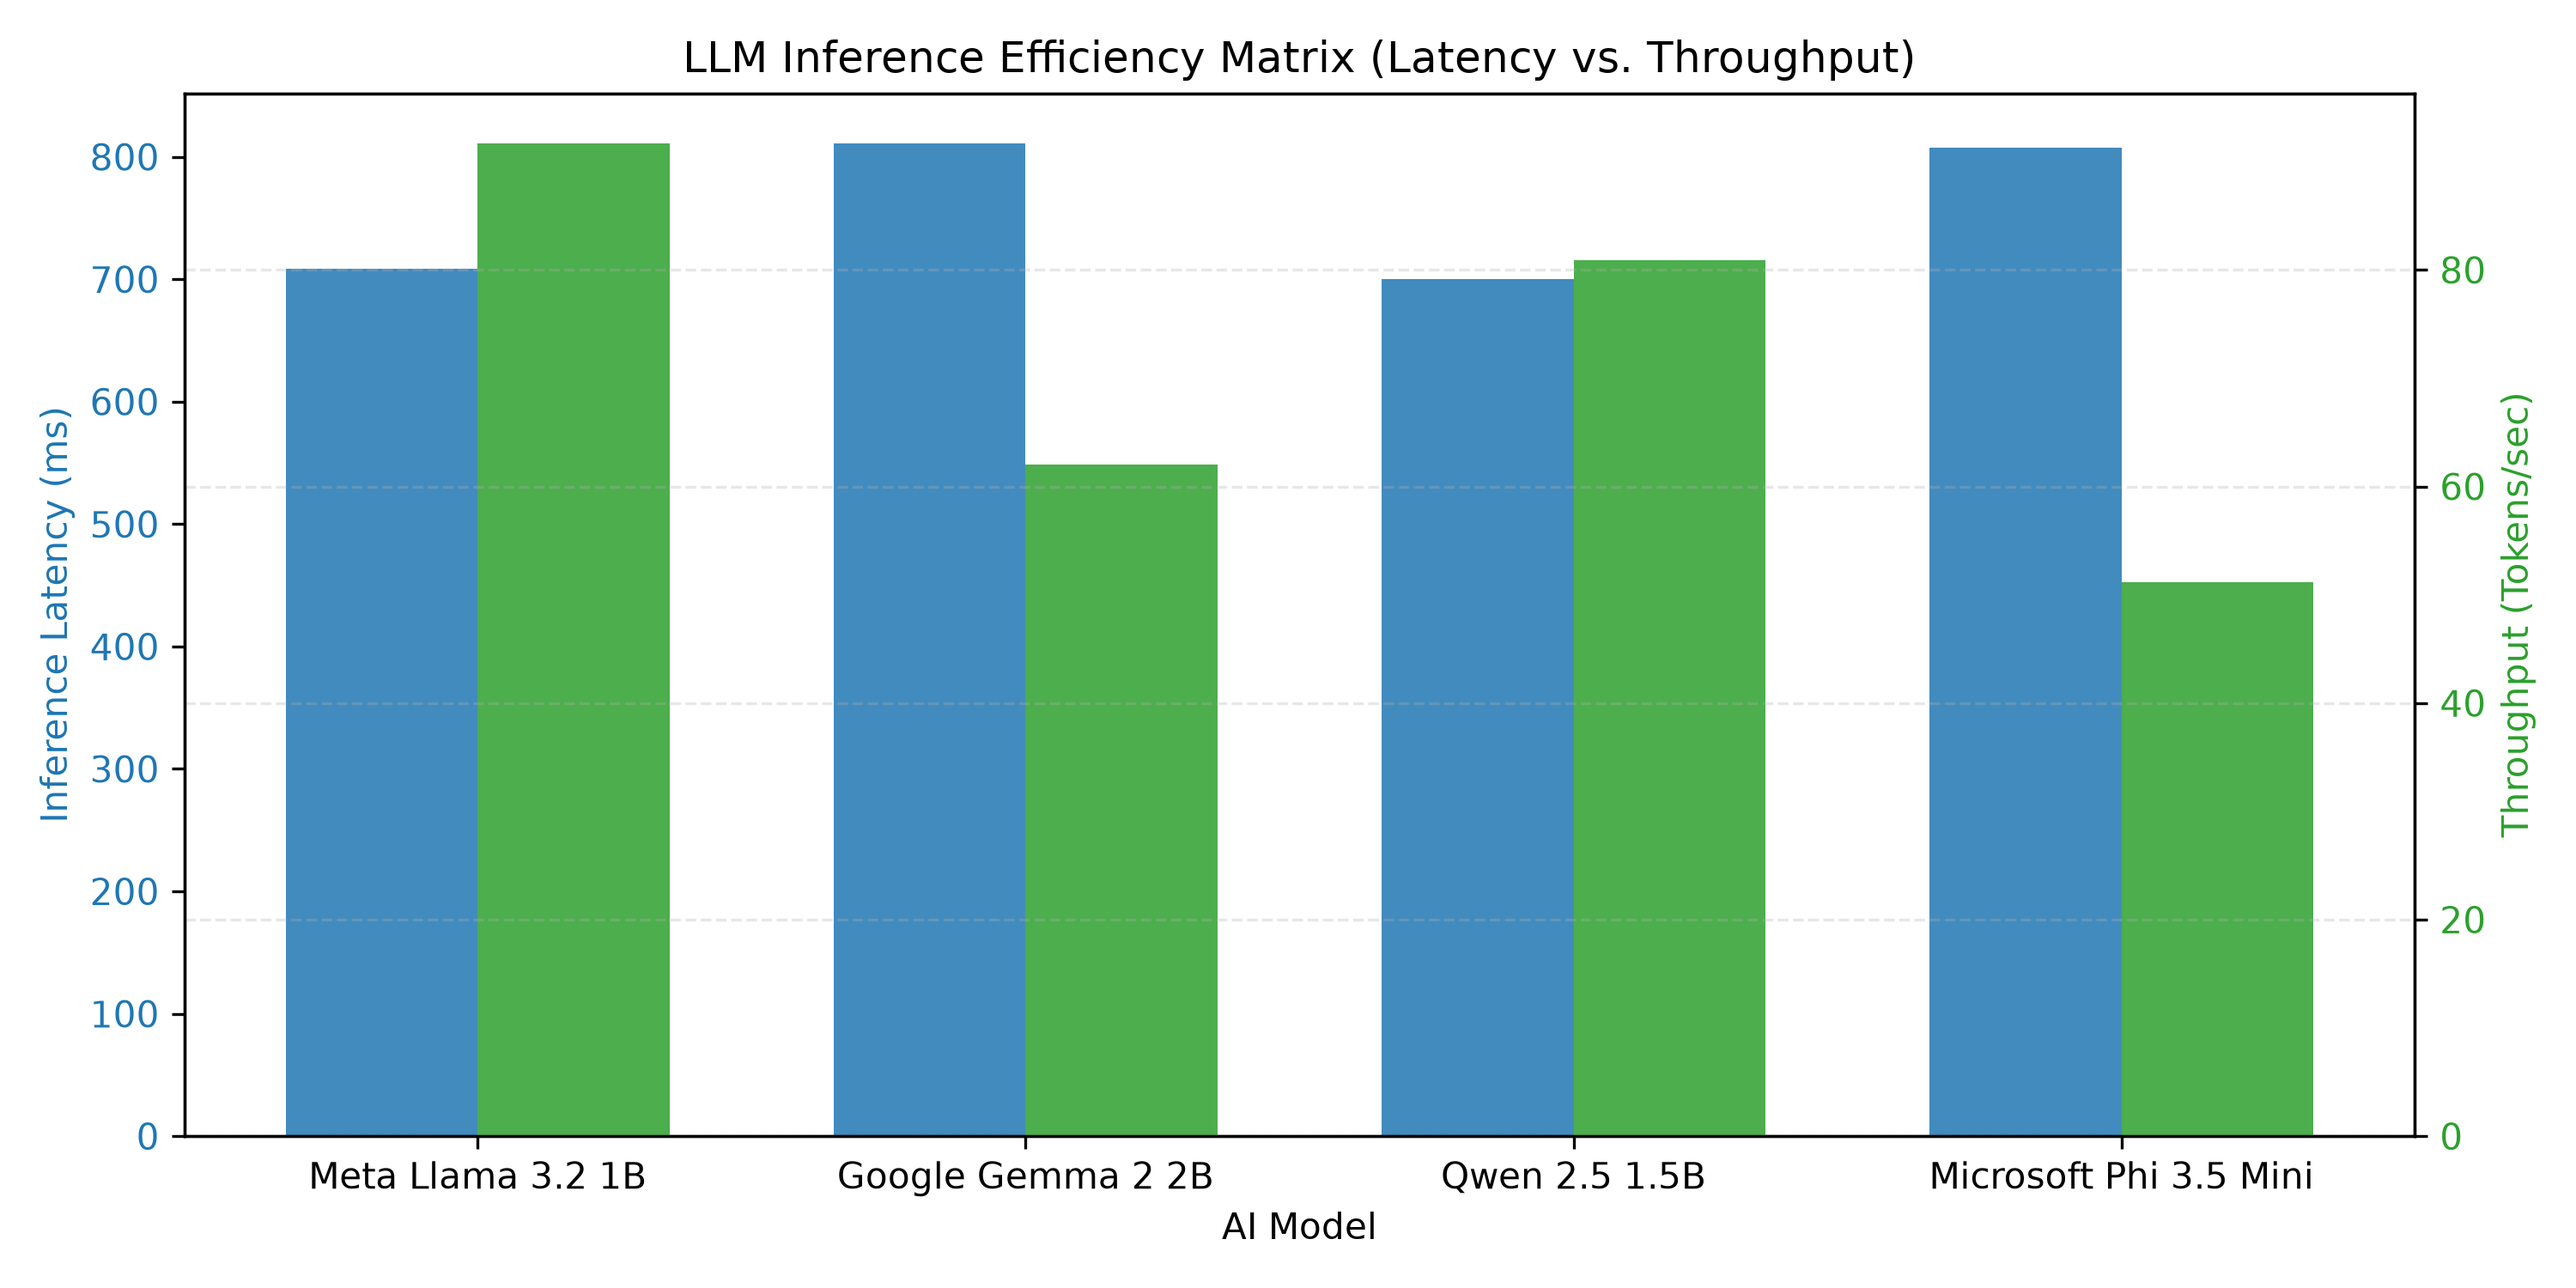
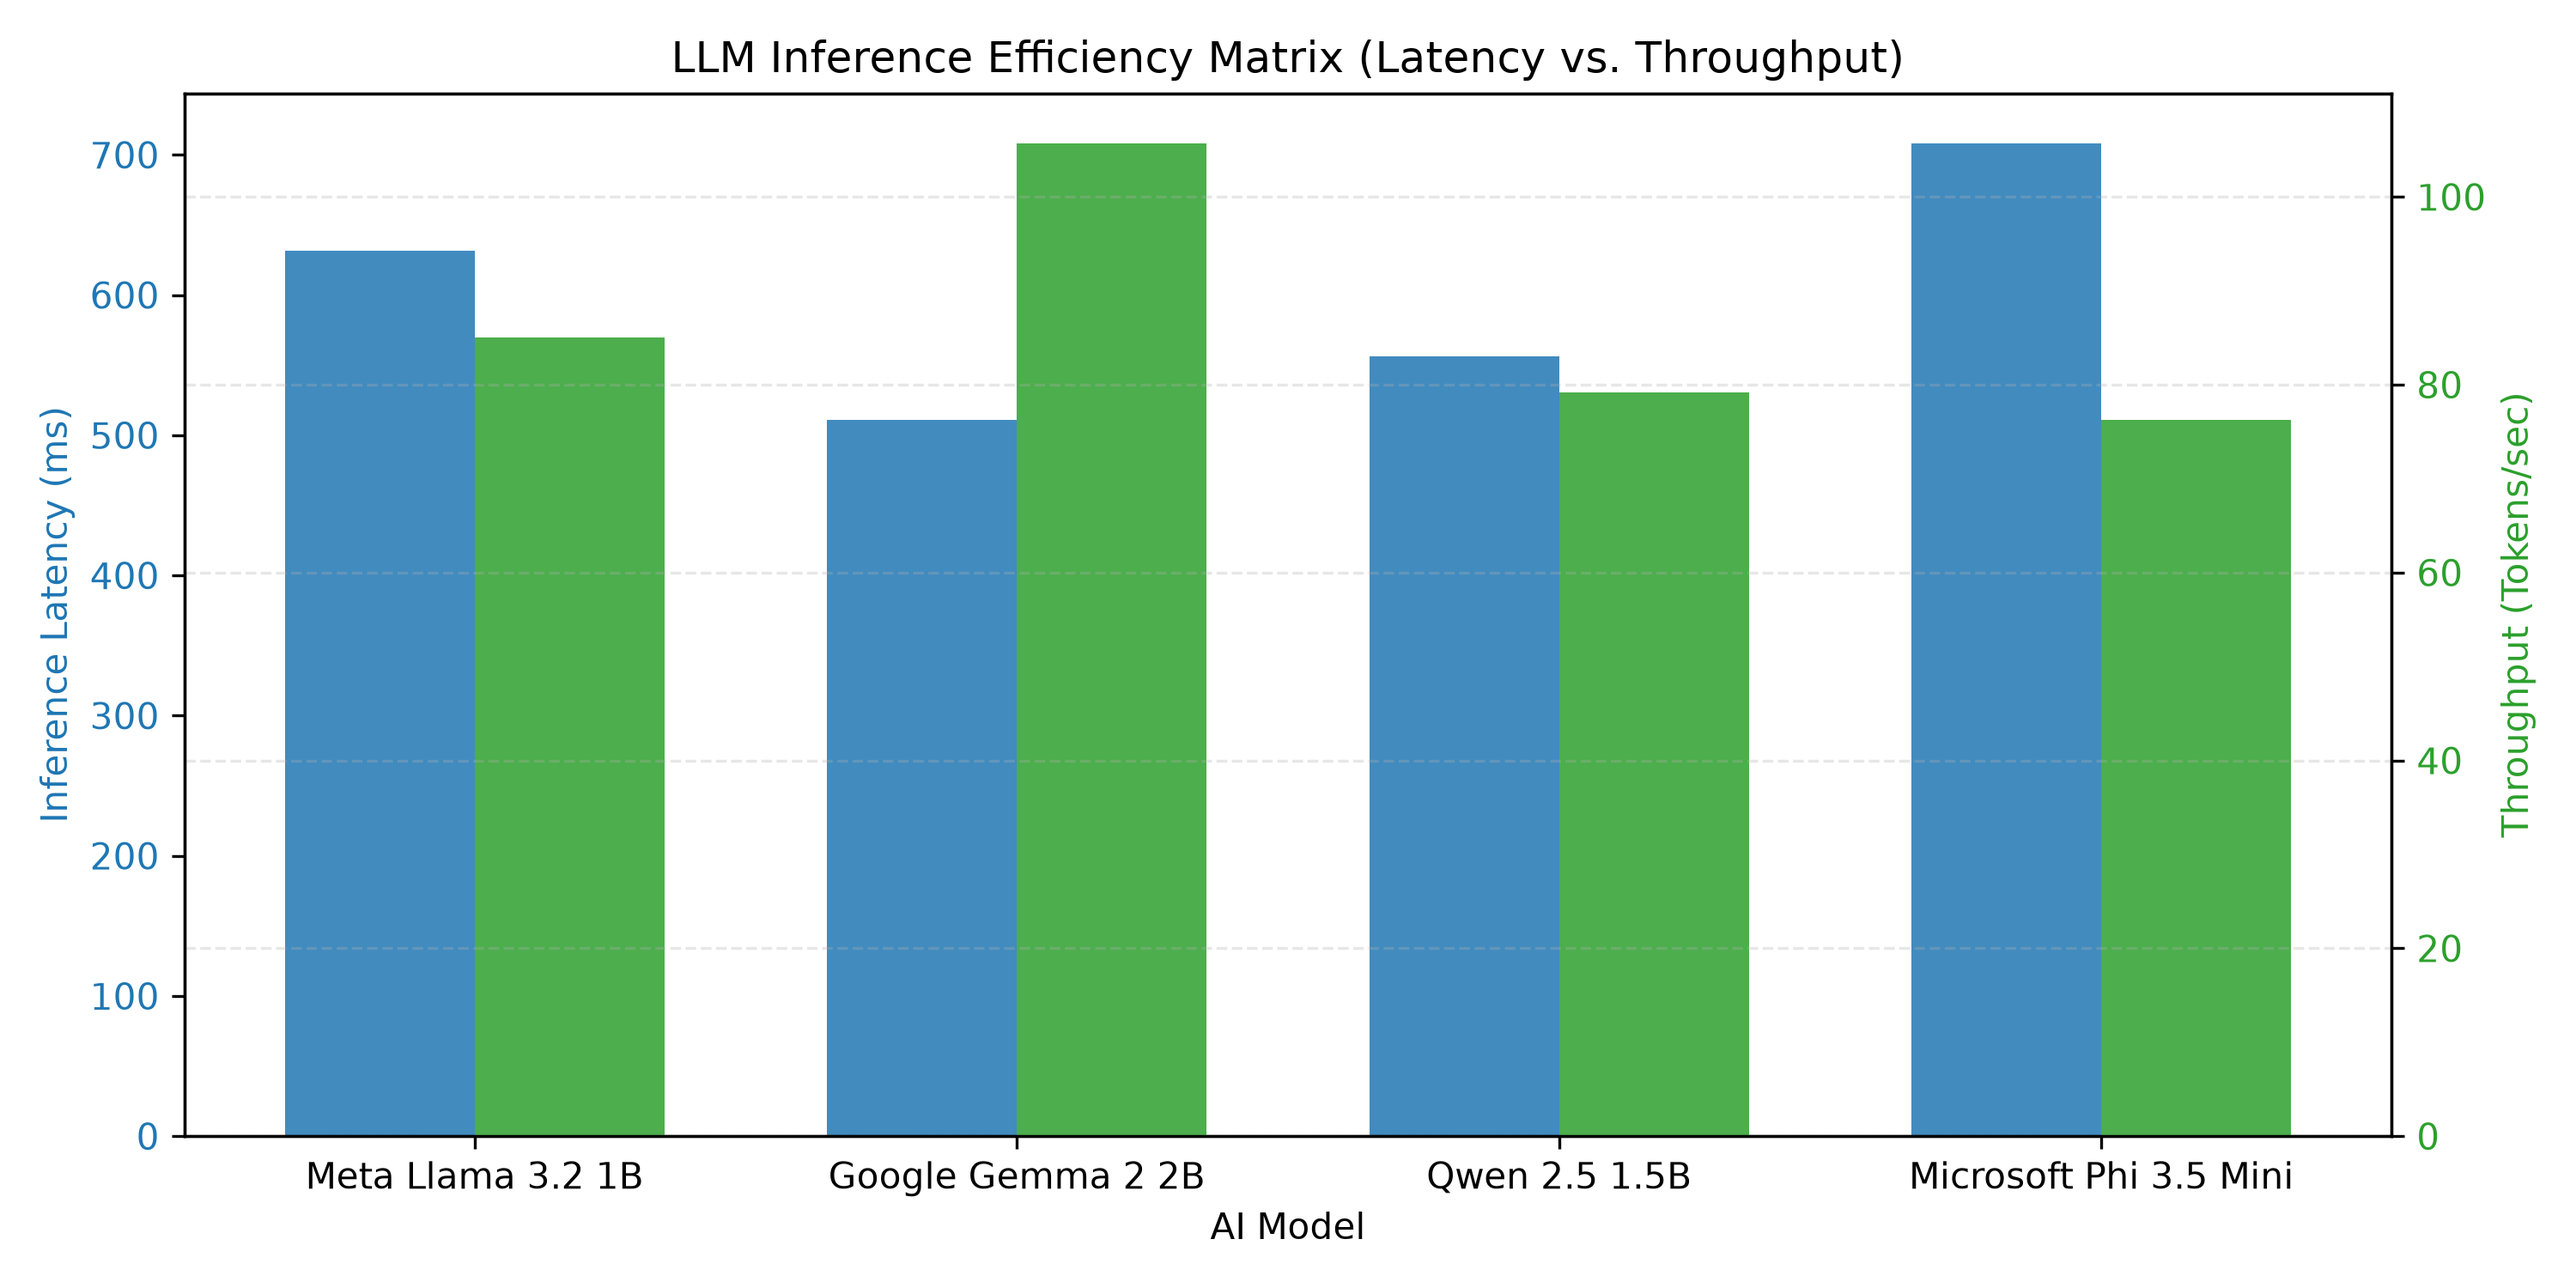
Automated update: LLM evaluation leaderboards & latency metrics

diff --git a/README.md b/README.md
@@ -1,6 +1,6 @@
 # 🧠 Automated LLM Evaluation & Inference Observability Harness
 
-*Automated eval run execution timestamp:* **2026-11-18 18:45:46 UTC**
+*Automated eval run execution timestamp:* **2026-11-19 18:56:39 UTC**
 
 An automated MLOps evaluation and benchmarking engine designed to measure open-weights Large Language Model (LLM) performance, tracking **Inference Latency (ms)**, **Generation Throughput (Tokens/sec)**, and **Eval Accuracy Indices** across major open models.
 
@@ -8,13 +8,13 @@ An automated MLOps evaluation and benchmarking engine designed to measure open-w
 
 | Model Architecture | Latency (ms) | Throughput (Tokens/s) | Quality Score Index | Success Rate |
 | :--- | :--- | :--- | :--- | :--- |
-| **Meta Llama 3.2 1B** | `708.8 ms` | `91.7 t/s` | `95.0%` | `100.0%` |
-| **Google Gemma 2 2B** | `811.12 ms` | `62.05 t/s` | `91.4%` | `100.0%` |
-| **Qwen 2.5 1.5B** | `700.49 ms` | `80.9 t/s` | `88.1%` | `100.0%` |
-| **Microsoft Phi 3.5 Mini** | `807.65 ms` | `51.18 t/s` | `95.0%` | `100.0%` |
+| **Meta Llama 3.2 1B** | `631.31 ms` | `85.01 t/s` | `88.5%` | `100.0%` |
+| **Google Gemma 2 2B** | `510.83 ms` | `105.71 t/s` | `88.4%` | `100.0%` |
+| **Qwen 2.5 1.5B** | `555.98 ms` | `79.14 t/s` | `88.2%` | `100.0%` |
+| **Microsoft Phi 3.5 Mini** | `708.28 ms` | `76.24 t/s` | `91.3%` | `100.0%` |
 
 ### 📊 Inference Performance Pareto Curve
-![LLM Performance Matrix](llm_performance_matrix.png?v=1795027546)
+![LLM Performance Matrix](llm_performance_matrix.png?v=1795114600)
 
 ---
 
